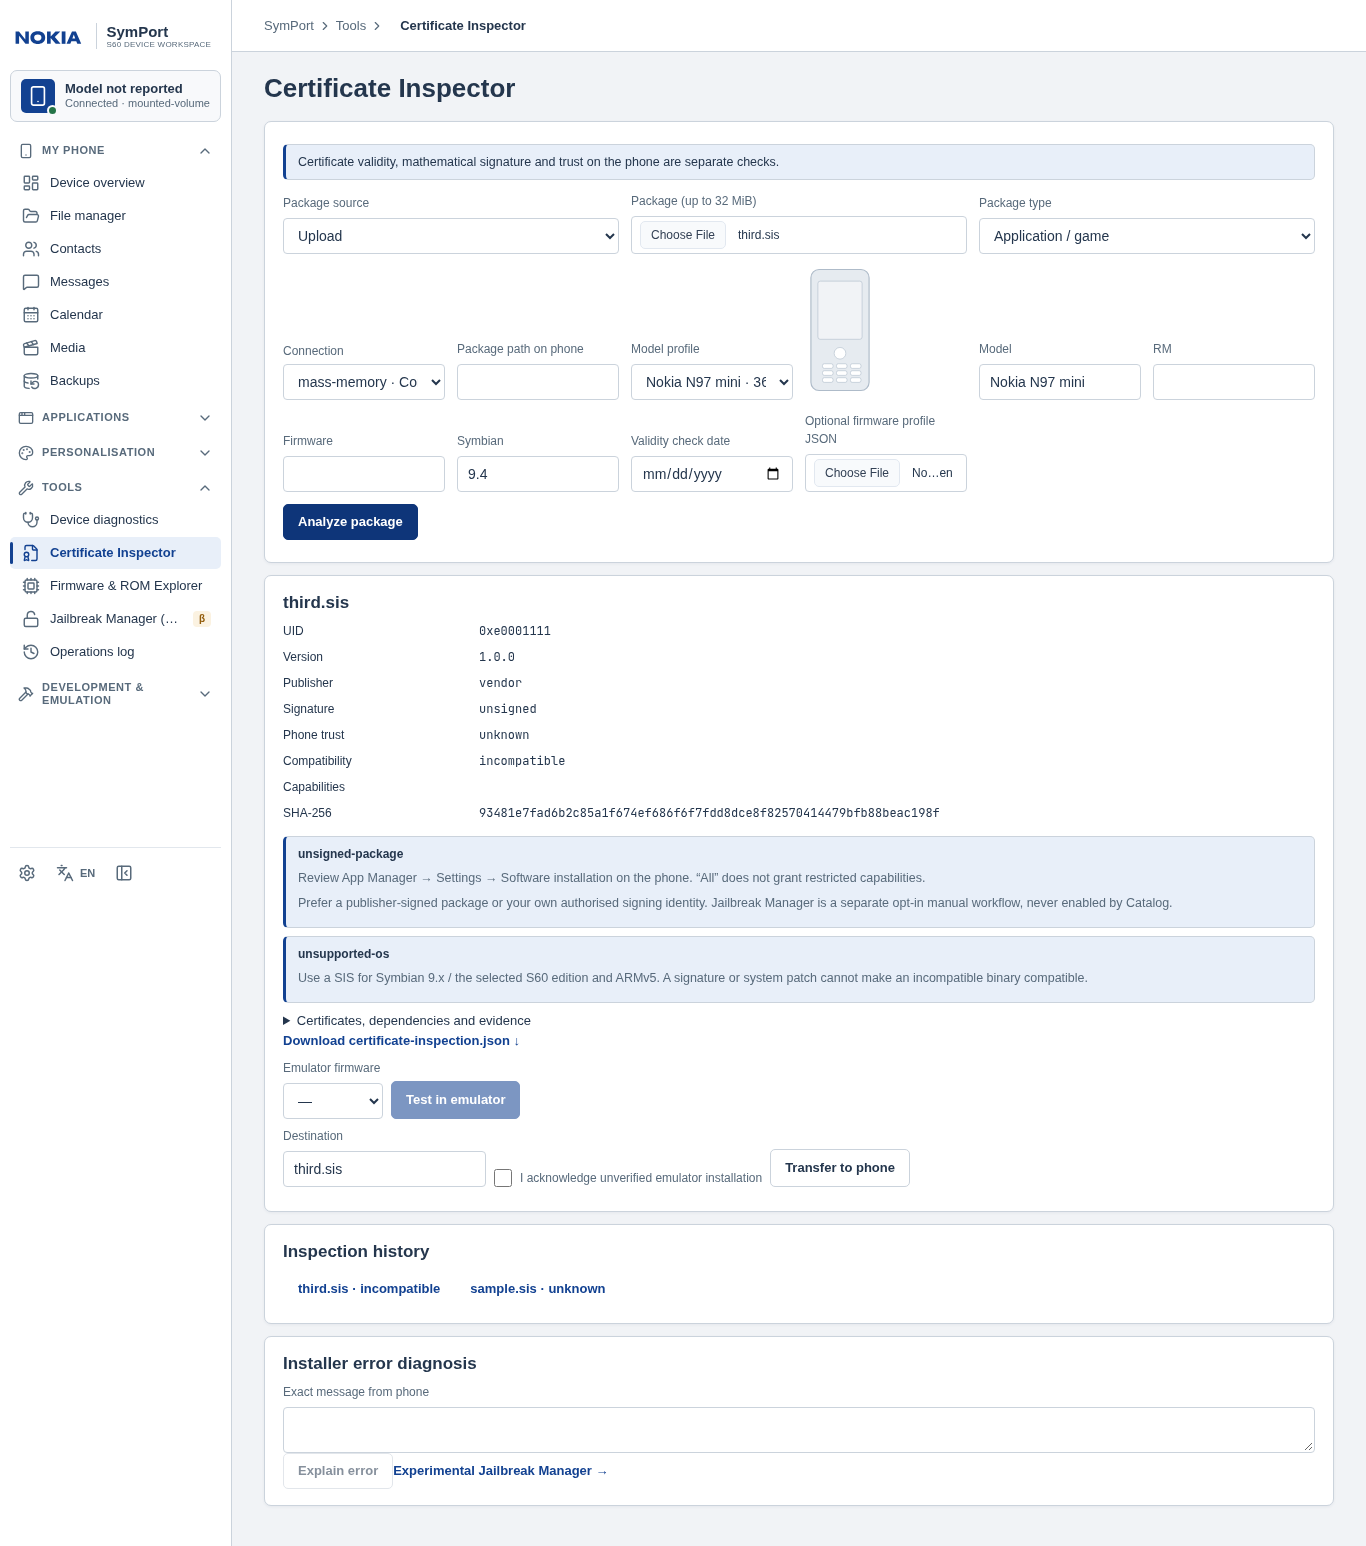
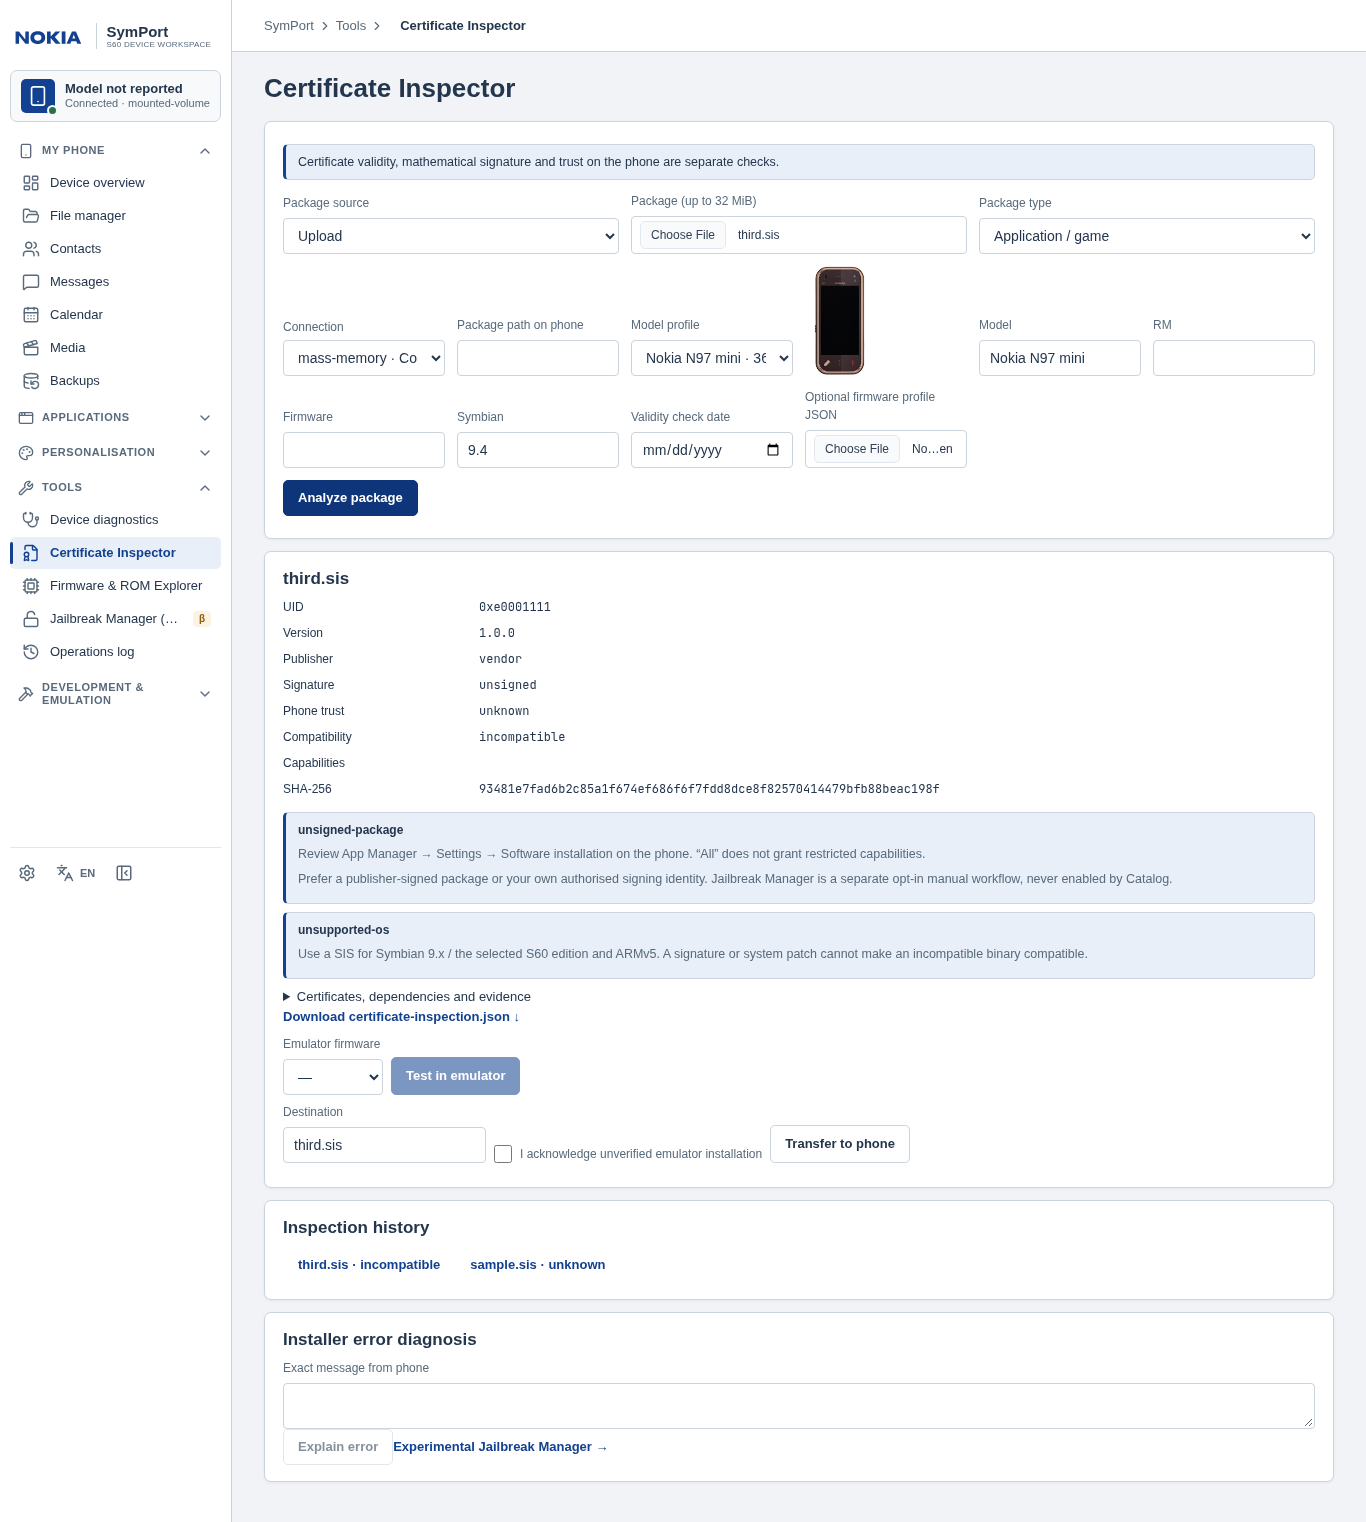
fix: add N97 mini handset art and isolate connection state

diff --git a/frontend/src/test/personal.test.tsx b/frontend/src/test/personal.test.tsx
@@ -1,4 +1,4 @@
-import { render, screen, waitFor } from '@testing-library/react';
+import { act, render, screen, waitFor } from '@testing-library/react';
 import userEvent from '@testing-library/user-event';
 import { QueryClient, QueryClientProvider } from '@tanstack/react-query';
 import { afterEach, describe, expect, it, vi } from 'vitest';
@@ -7,11 +7,99 @@ import { ApiProvider, PreferencesProvider } from '../state/app';
 import Personal from '../features/Personal';
 import { Field } from '../components/workspace';
 import { catalogSchema } from '../api/catalog';
+import { keys } from '../api/queries';
 afterEach(() => {
   vi.unstubAllGlobals();
   localStorage.clear();
 });
 describe('migration contracts and accessible interaction', () => {
+  it.each(['disconnect', 'replacement'])(
+    'discards private rows and a pending confirmation after %s on the same connection id',
+    async (change) => {
+      localStorage.setItem('symport-language', 'en');
+      const phone = {
+        id: 'fixture',
+        transport: 'gammu',
+        model: 'Nokia N97 mini',
+        connected: true,
+        capabilities: ['personal-data', 'contacts-read'],
+        capability_fingerprint: 'old-connection',
+      };
+      const actions: string[] = [];
+      vi.stubGlobal(
+        'fetch',
+        vi.fn(async (_url: string, init: RequestInit) => {
+          const body = JSON.parse(String(init.body)) as { action: string };
+          actions.push(body.action);
+          const response =
+            body.action === 'discover'
+              ? { devices: [phone], limitations: {} }
+              : body.action === 'personal-read'
+                ? {
+                    snapshot: 'old-snapshot',
+                    fingerprint: 'old-phone',
+                    duplicates: [],
+                    rows: [
+                      {
+                        name: 'Old private contact',
+                        phones: ['+1234567'],
+                        emails: [],
+                        native_id: '1',
+                      },
+                    ],
+                  }
+                : body.action === 'personal-preview'
+                  ? {
+                      plan: 'old-plan',
+                      conflicts: [],
+                      skipped: 0,
+                      changes: [
+                        { operation: 'add', before: null, after: { name: 'Old private contact' } },
+                      ],
+                    }
+                  : {};
+          return new Response(JSON.stringify(response));
+        }),
+      );
+      const cache = new QueryClient({ defaultOptions: { queries: { retry: false } } });
+      render(
+        <QueryClientProvider client={cache}>
+          <ApiProvider client={new ApiClient(() => 'test')}>
+            <PreferencesProvider>
+              <Personal domain="contacts" />
+            </PreferencesProvider>
+          </ApiProvider>
+        </QueryClientProvider>,
+      );
+      await screen.findByRole('option', { name: /Nokia N97 mini/ });
+      await userEvent.selectOptions(
+        screen.getByLabelText('Connection', { exact: true }),
+        'fixture',
+      );
+      await userEvent.click(screen.getByRole('button', { name: 'Read phone' }));
+      await screen.findByLabelText('name: Old private contact');
+      await userEvent.click(screen.getByRole('button', { name: 'Preview synchronization' }));
+      await userEvent.click(await screen.findByRole('button', { name: 'Apply changes' }));
+      expect(screen.getByRole('button', { name: 'Confirm' })).toBeInTheDocument();
+      act(() =>
+        cache.setQueryData(keys.devices, {
+          devices: [
+            {
+              ...phone,
+              connected: change !== 'disconnect',
+              capability_fingerprint: 'new-connection',
+            },
+          ],
+          limitations: {},
+        }),
+      );
+      await waitFor(() => {
+        expect(screen.queryByLabelText('name: Old private contact')).not.toBeInTheDocument();
+        expect(screen.queryByRole('button', { name: 'Confirm' })).not.toBeInTheDocument();
+      });
+      expect(actions).not.toContain('personal-apply');
+    },
+  );
   it('gives a select its label without concatenating option text', () => {
     render(
       <Field label="Store">

diff --git a/frontend/src/features/Media.tsx b/frontend/src/features/Media.tsx
@@ -4,7 +4,7 @@ import { useEffect, useRef, useState } from 'react';
 import { useMutation, useQuery } from '@tanstack/react-query';
 import { z } from 'zod';
 import { useApi, usePreferences } from '../state/app';
-import { useDevices } from '../api/queries';
+import { useConnectionKey, useDevices } from '../api/queries';
 import { mediaSchema, payload, type MediaItem } from '../api/workspace';
 import { Card, CapabilityHint, DeviceSelect, ErrorMessage } from '../components/ui';
 import { Field, Modal } from '../components/workspace';
@@ -19,13 +19,14 @@ const url = (device: string, item: MediaItem, download = false) =>
   }).toString();
 export default function Media() {
   const { device, setDevice, t } = usePreferences();
+  const connection = useConnectionKey(device);
   return (
     <>
       <PageHeader title={t('Media Gallery', 'Медиагалерея')} />
       <Card>
         <DeviceSelect value={device} onChange={setDevice} />
       </Card>
-      <Gallery key={device} device={device} />
+      <Gallery key={`${device}:${connection}`} device={device} />
       <Transfer kind="media" />
     </>
   );

diff --git a/frontend/src/features/Personal.tsx b/frontend/src/features/Personal.tsx
@@ -5,7 +5,7 @@ import { useEffect, useState } from 'react';
 import { useMutation, useQuery, useQueryClient } from '@tanstack/react-query';
 import { z } from 'zod';
 import { useApi, usePreferences } from '../state/app';
-import { useDevices } from '../api/queries';
+import { useConnectionKey, useDevices } from '../api/queries';
 import {
   contactSchema,
   fileSchema,
@@ -31,6 +31,7 @@ const names = {
 } as const;
 export default function Personal({ domain: initial }: { domain: Domain }) {
   const { device, setDevice, t } = usePreferences();
+  const connection = useConnectionKey(device);
   const [domain, setDomain] = useState(initial);
   return (
     <>
@@ -51,7 +52,7 @@ export default function Personal({ domain: initial }: { domain: Domain }) {
           )}
         </div>
       </Card>
-      <Workspace key={`${device}:${domain}`} device={device} domain={domain} />
+      <Workspace key={`${device}:${domain}:${connection}`} device={device} domain={domain} />
     </>
   );
 }

diff --git a/frontend/src/api/queries.ts b/frontend/src/api/queries.ts
@@ -8,7 +8,13 @@ export const keys = {
   history: ['history'] as const,
 };
 /** Query roots whose second key element is a connection id. */
-export const DEVICE_SCOPED_ROOTS = ['files', 'personal', 'media', 'diagnostics'] as const;
+export const DEVICE_SCOPED_ROOTS = [
+  'files',
+  'personal',
+  'media',
+  'media-thumbnails',
+  'diagnostics',
+] as const;
 export function useDevices() {
   const api = useApi();
   return useQuery({
@@ -18,6 +24,12 @@ export function useDevices() {
     refetchInterval: 30000,
     retry: false,
   });
+}
+/** Remount private drafts/confirmations when the selected phone or filesystem changes. */
+export function useConnectionKey(id: string) {
+  const { data, isError } = useDevices();
+  const device = data?.devices.find((item) => item.id === id);
+  return !isError && device ? connectionKey(device) : 'unavailable';
 }
 /**
  * Drops everything cached for a connection as soon as it stops being the same connection:

diff --git a/frontend/src/test/n97Mini.test.tsx b/frontend/src/test/n97Mini.test.tsx
@@ -14,7 +14,7 @@ afterEach(() => {
   location.hash = '';
 });
 describe('N97 mini targets and theme exclusion', () => {
-  it('selects 9.4, preserves both orientations and has no invented artwork', () => {
+  it('selects 9.4, preserves both orientations and uses its own handset artwork', () => {
     const model = profileById('nokia-n97-mini');
     expect(targetForProfile('nokia-n97-mini')).toEqual({
       model: 'Nokia N97 mini',
@@ -22,7 +22,8 @@ describe('N97 mini targets and theme exclusion', () => {
       rm: '',
       firmware: '',
     });
-    expect(model?.image).toBeNull();
+    expect(model?.image).toBe('/phones/nokia-n97-mini.png');
+    expect(model?.artwork).toBeNull(); // Decorative handset, not an enabled theme preview.
     expect(model?.screen_modes).toEqual([
       { width: 360, height: 640, orientation: 'portrait' },
       { width: 640, height: 360, orientation: 'landscape' },

diff --git a/frontend/src/features/Files.tsx b/frontend/src/features/Files.tsx
@@ -4,7 +4,7 @@ import { useConfirmedAction } from '../hooks/useConfirmedAction';
 import { useState } from 'react';
 import { useMutation, useQueryClient } from '@tanstack/react-query';
 import { useApi, usePreferences } from '../state/app';
-import { useDevices } from '../api/queries';
+import { useConnectionKey, useDevices } from '../api/queries';
 import {
   Card,
   CapabilityHint,
@@ -27,6 +27,12 @@ function join(path: string, name: string) {
   return [path.replace(/\/$/, ''), name].filter(Boolean).join('/');
 }
 export default function Files() {
+  const { device } = usePreferences();
+  const connection = useConnectionKey(device);
+  return <FileWorkspace key={`${device}:${connection}`} />;
+}
+
+function FileWorkspace() {
   const api = useApi();
   const queryClient = useQueryClient();
   const { t, device, setDevice } = usePreferences();

diff --git a/tests/test_n97_mini.py b/tests/test_n97_mini.py
@@ -13,6 +13,7 @@ import time
 from types import SimpleNamespace
 
 import pytest
+from PIL import Image
 
 from symport.catalog.compatibility import assessment
 from symport.catalog.model import Catalog
@@ -53,9 +54,21 @@ def test_specific_verified_name_forms_have_priority_over_n97(name):
     assert documented_model(name)["model"] == "N97 MINI"
     assert p["symbian"] == "9.4" and p["s60"] == "5th"
     assert p["screen"]["width"] == 360 and p["screen"]["height"] == 640
-    assert p["image"] is None and p["artwork"] is None
+    assert p["image"] == "/phones/nokia-n97-mini.png" and p["artwork"] is None
     assert p["measured"] is False and p["hardware"] == "not-tested"
     assert p["theme_studio"]["status"] == "unsupported"
+
+
+def test_mini_has_a_separate_transparent_handset_asset_without_enabling_theme_geometry():
+    profile = identify("N97 mini")
+    path = REPO / "symport/web_assets" / profile["image"].lstrip("/")
+    with Image.open(path) as image:
+        assert image.mode == "RGBA" and image.height >= 1000
+        assert image.getpixel((0, 0))[3] == 0
+        left, top, right, bottom = image.getbbox()
+        # Closed Mini body: ~52.5 mm / 113 mm, with no non-uniform stretch.
+        assert abs((right - left) / (bottom - top) - 52.5 / 113) < 0.04
+    assert profile["artwork"] is None and "nokia-n97-mini" not in theme_profiles()
 
 
 @pytest.mark.parametrize("name", ["N97", "Nokia N97 (RM-505)", "N97 RM-555"])
@@ -236,6 +249,23 @@ def test_changed_gammu_config_invalidates_a_pending_write_without_another_discov
     assert not calls  # Nothing was read from or written to the newly configured phone.
 
 
+def test_native_identity_separates_same_model_phones_on_the_same_profile(tmp_path, monkeypatch):
+    monkeypatch.setattr("symport.phone.gammu_adapter.gammu_native.available", lambda: True)
+    cfg = tmp_path / "gammurc"
+    cfg.write_text("[gammu]\ndevice=COM7\nconnection=at\n")
+    adapter = GammuAdapter(tmp_path, "phone", str(cfg), kind="gammu-usb")
+    details = {"model": "Nokia N97 mini", "manufacturer": "Nokia", "fingerprint": "phone-A"}
+    adapter.personal.execute = lambda *args: dict(details)
+    first = adapter.device()
+    adapter.personal.plans["old-plan"] = {"private": "phone A"}
+    adapter.personal.snapshots["old-snapshot"] = {"private": "phone A"}
+    details["fingerprint"] = "phone-B"
+    second = adapter.device()
+    assert first["capability_fingerprint"] != second["capability_fingerprint"]
+    assert first["connection_identity"] != second["connection_identity"]
+    assert not adapter.personal.plans and not adapter.personal.snapshots
+
+
 def test_replaced_windows_disk_on_same_letter_resets_only_its_old_proofs(tmp_path, monkeypatch):
     from symport.bridge.main import Agent
 
@@ -254,7 +284,11 @@ def test_replaced_windows_disk_on_same_letter_resets_only_its_old_proofs(tmp_pat
     agent.server = SimpleNamespace(origins=set())
     monkeypatch.setattr("symport.bridge.main.load_config", lambda _: {"auto_usb": True})
     monkeypatch.setattr("symport.bridge.main.load_profiles", lambda _: [])
-    monkeypatch.setattr("symport.bridge.main.LocalTransports", lambda _: object())
+
+    def local_transports(_, *, volume_identities):
+        return SimpleNamespace(volume_identities=dict(volume_identities))
+
+    monkeypatch.setattr("symport.bridge.main.LocalTransports", local_transports)
     for key in ("SYMPORT_DEVICE_ROOTS", "SYMPORT_GAMMU_CONFIG", "SYMPORT_CONNECTIONS_FILE"):
         monkeypatch.setenv(key, "")
     agent.refresh_config()
@@ -266,6 +300,22 @@ def test_replaced_windows_disk_on_same_letter_resets_only_its_old_proofs(tmp_pat
     assert agent.manager.observed.proofs == {"manual": {}}
     assert agent.manager.rows == {"manual": {}}
     assert agent._enrolled_identities == agent._volume_identities
+    assert agent.manager.transport.volume_identities == agent._volume_identities
+
+
+def test_host_volume_identity_changes_fingerprint_even_if_path_and_stat_are_reused(tmp_path):
+    first = MountedVolumes(
+        {"slot": str(tmp_path)}, identities={"slot": "usb-A:volume-A"}
+    ).devices()[0]
+    same = MountedVolumes({"slot": str(tmp_path)}, identities={"slot": "usb-A:volume-A"}).devices()[
+        0
+    ]
+    replacement = MountedVolumes(
+        {"slot": str(tmp_path)}, identities={"slot": "usb-A:volume-B"}
+    ).devices()[0]
+    assert first["capability_fingerprint"] == same["capability_fingerprint"]
+    assert first["capability_fingerprint"] != replacement["capability_fingerprint"]
+    assert "volume-A" not in json.dumps(first) and str(tmp_path) not in json.dumps(first)
 
 
 def test_enrolled_volume_is_not_mini_pim_or_internal_c_and_proofs_do_not_follow_a_new_root(
@@ -367,6 +417,7 @@ def test_windows_serial_and_disk_candidates_are_only_hints(monkeypatch):
         script = args[-1]
         assert "Win32_DiskDrive" in script and "InterfaceType -eq 'USB'" in script
         assert "DriveType -eq 3" in script and "$env:SystemDrive" in script
+        assert "VolumeSerialNumber" in script  # A new card in the same handset is a new volume.
         rows = [
             {
                 "root": "E:/",

diff --git a/symport/bridge/discovery.py b/symport/bridge/discovery.py
@@ -44,7 +44,7 @@ def windows_nokia_volumes():
         return [], None
     # CIM associations tie each logical drive to its physical Nokia USB device.
     # Drive letters and Bluetooth names alone are never treated as phone identity.
-    script = """$ErrorActionPreference='Stop'; $items=@(); Get-CimInstance Win32_DiskDrive | Where-Object { $_.InterfaceType -eq 'USB' -and ($_.PNPDeviceID -match 'NOKIA|VID_0421' -or $_.Model -match 'Nokia') } | ForEach-Object { $disk=$_; Get-CimAssociatedInstance -InputObject $disk -Association Win32_DiskDriveToDiskPartition | ForEach-Object { Get-CimAssociatedInstance -InputObject $_ -Association Win32_LogicalDiskToPartition | Where-Object { ($_.DriveType -eq 2 -or $_.DriveType -eq 3) -and $_.DeviceID -ne $env:SystemDrive } | ForEach-Object { $items+=@{root=($_.DeviceID+'/');description=$disk.Model;identity=$disk.PNPDeviceID} } } }; ConvertTo-Json -InputObject @($items) -Compress"""
+    script = """$ErrorActionPreference='Stop'; $items=@(); Get-CimInstance Win32_DiskDrive | Where-Object { $_.InterfaceType -eq 'USB' -and ($_.PNPDeviceID -match 'NOKIA|VID_0421' -or $_.Model -match 'Nokia') } | ForEach-Object { $disk=$_; Get-CimAssociatedInstance -InputObject $disk -Association Win32_DiskDriveToDiskPartition | ForEach-Object { Get-CimAssociatedInstance -InputObject $_ -Association Win32_LogicalDiskToPartition | Where-Object { ($_.DriveType -eq 2 -or $_.DriveType -eq 3) -and $_.DeviceID -ne $env:SystemDrive } | ForEach-Object { $items+=@{root=($_.DeviceID+'/');description=$disk.Model;identity=($disk.PNPDeviceID+'|'+$_.VolumeSerialNumber)} } } }; ConvertTo-Json -InputObject @($items) -Compress"""
     try:
         result = subprocess.run(
             ["powershell.exe", "-NoProfile", "-NonInteractive", "-Command", script],

diff --git a/symport/phone/files.py b/symport/phone/files.py
@@ -19,8 +19,9 @@ from .contracts import LIMIT
 
 
 class MountedVolumes:
-    def __init__(self, roots: dict[str, str]):
+    def __init__(self, roots: dict[str, str], *, identities: dict[str, str] | None = None):
         self.roots = {k: Path(v).absolute() for k, v in roots.items()}
+        self.identities = dict(identities or {})
 
     def devices(self) -> list[dict]:
         result = []
@@ -28,7 +29,7 @@ class MountedVolumes:
             connected = root.is_dir() and not root.is_symlink()
             usage = shutil.disk_usage(root) if connected else None
             stat = root.stat() if connected else None
-            root_identity = hashlib.sha256(str((str(root), stat.st_dev if stat else None, stat.st_ino if stat else None)).encode()).hexdigest()
+            root_identity = hashlib.sha256(str((str(root), stat.st_dev if stat else None, stat.st_ino if stat else None, self.identities.get(key))).encode()).hexdigest()
             row = {"connection_identity": root_identity, "id": key, "transport": "mounted-volume", "connected": connected,
                    "model": None, "rm": None, "firmware": None, "battery": None,
                    "free": usage.free if usage else None,

diff --git a/symport/phone/gammu_adapter.py b/symport/phone/gammu_adapter.py
@@ -185,7 +185,16 @@ class GammuAdapter:
                     device["evidence"] = (
                         "Gammu unavailable, configuration invalid or phone unreachable"
                     )
-            phone_identity = tuple(device.get(key) for key in ('connected','model','rm','firmware'))
+            native_identity = device.get("fingerprint")
+            if native_identity:
+                # Native identity distinguishes two same-model phones on the same profile.
+                # Salt it per adapter session rather than publishing a durable device identifier.
+                device["connection_identity"] = hmac.new(
+                    self._identity_key,
+                    (connection_identity + "\0" + str(native_identity)).encode(),
+                    hashlib.sha256,
+                ).hexdigest()
+            phone_identity = tuple(device.get(key) for key in ('connected','model','rm','firmware')) + (native_identity,)
             if self._phone_identity != phone_identity:
                 self.personal.snapshots.clear()
                 self.personal.plans.clear()

diff --git a/symport/phone/capabilities.py b/symport/phone/capabilities.py
@@ -90,8 +90,9 @@ def now() -> str:
 def fingerprint(row: dict) -> str:
     """Stable id of *this* connection to *this* phone; changes with model, firmware or link.
 
-    No IMEI/serial is used so it can appear in reports; a different phone of the same model on
-    the same profile is distinguished by the user switching connection, not by this value.
+    No raw IMEI/serial is used. Adapters may provide an opaque connection identity (including
+    session-salted native evidence) to distinguish same-model phones or replacement volumes.
+    Without such evidence, a model name alone cannot distinguish two identical handsets.
     """
     parts = [str(row.get(name) or "") for name in IDENTITY_FIELDS]
     return hashlib.sha256("\x1f".join(parts).encode()).hexdigest()[:16]

diff --git a/symport/phone/local.py b/symport/phone/local.py
@@ -13,9 +13,9 @@ from .obex import ObexAdapter
 
 
 class LocalTransports:
-    def __init__(self, repo: Path | None = None):
+    def __init__(self, repo: Path | None = None, *, volume_identities: dict[str, str] | None = None):
         repo = repo or Path.cwd()
-        self.files = MountedVolumes(json.loads(os.getenv("SYMPORT_DEVICE_ROOTS", "{}")))
+        self.files = MountedVolumes(json.loads(os.getenv("SYMPORT_DEVICE_ROOTS", "{}")), identities=volume_identities)
         self.gammu = GammuAdapter(repo, "gammu", lambda: os.getenv("SYMPORT_GAMMU_CONFIG"))
         self.adapters = {"gammu": self.gammu}
         self.configuration_error = None
